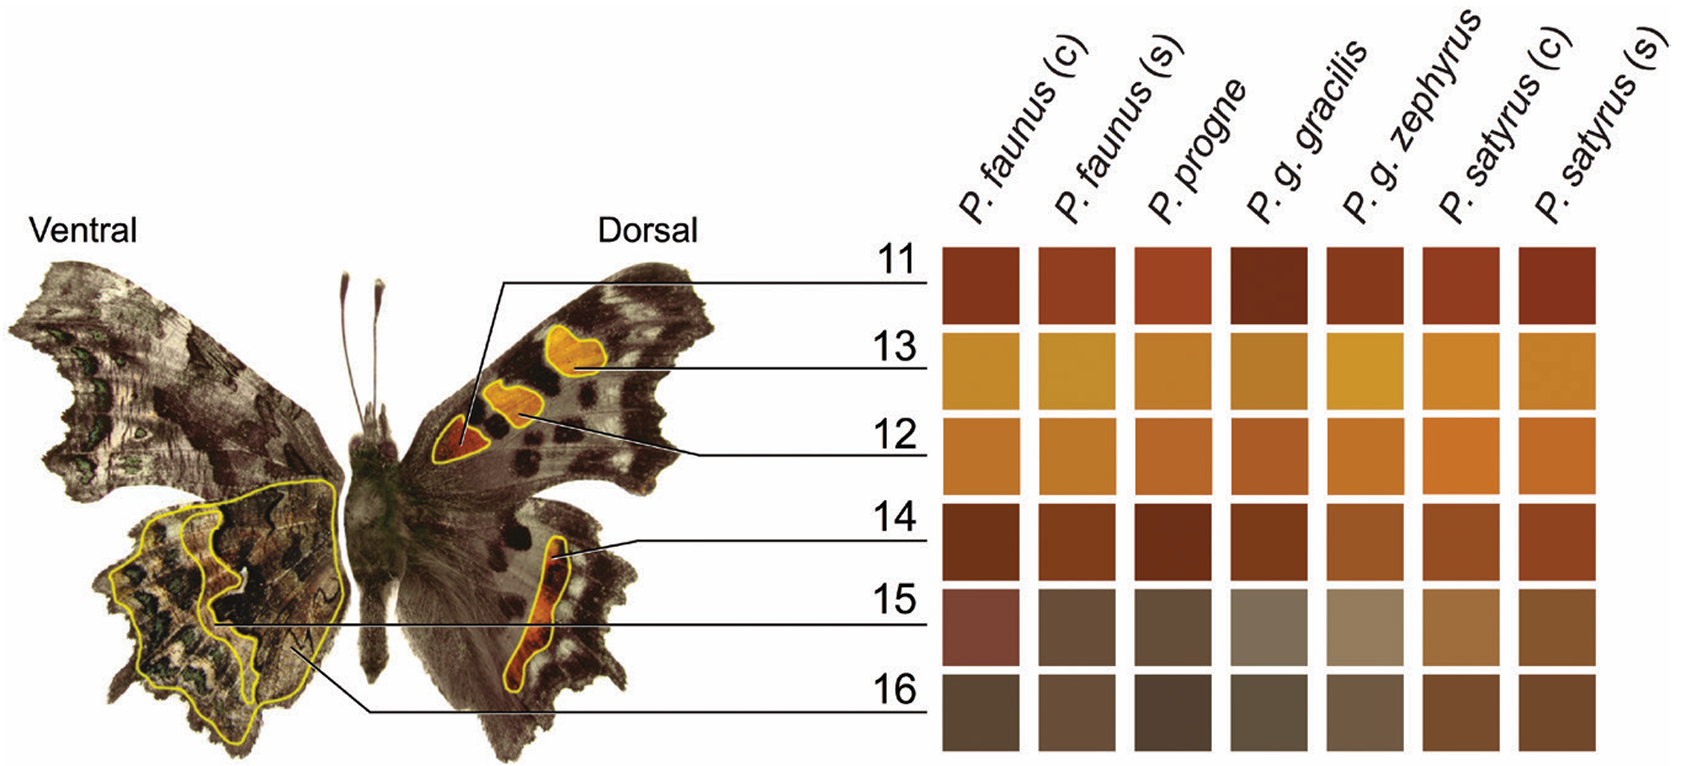
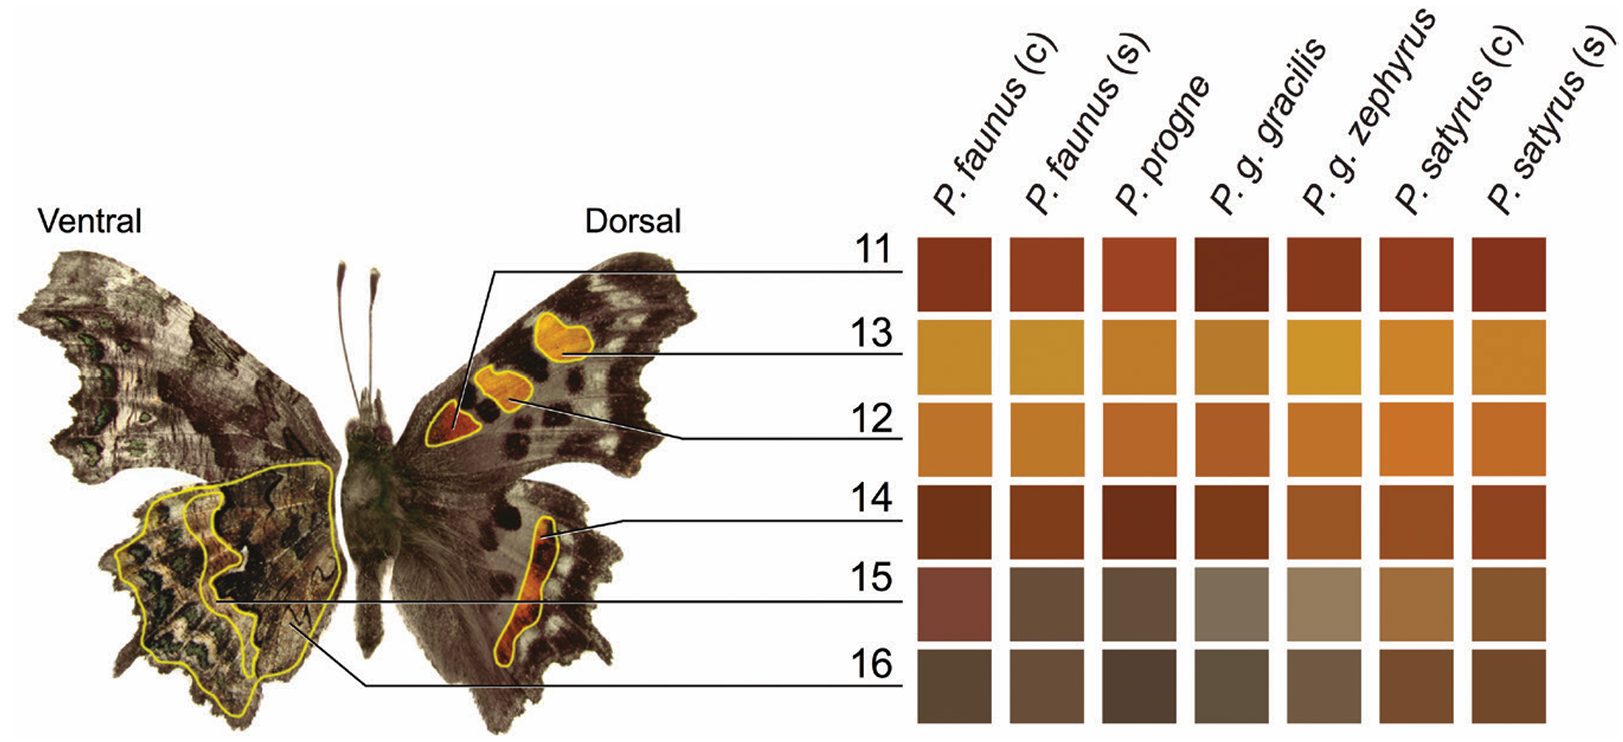
README update

Changed region(s): [[0.0, 0.0, 1.0, 1.0], [0.5545, 0.248, 0.5853, 0.279]]

diff --git a/README.md b/README.md
@@ -6,16 +6,17 @@ SOMs are unsupervised machine-learning models that organize high-dimensional dat
 Different sources of information, such as genomic, morphological, environmental, or spatial data, are retained as separate layers while jointly contributing to the same map.
 Any data that can be represented quantitatively for a common set of individuals can be incorporated, including continuous, binary, categorical, and count data.
 
+First, a SOM grid is constructed with dimensions based on the input data. 
 Each cell in the grid is represented by a codebook vector that summarizes the local multivariate "average" of the individuals mapped to it.
 During training, individuals are repeatedly matched to the most similar cell, and that cell and its neighbors are updated toward their measurements.
 Over many training steps, this produces an organized map where similar individuals become represented in nearby regions and dissimilar individuals farther apart (Kohonen 1998, 2014).
-Because the observations are summarized by few codebook vectors, SOMs can reduce sensitivity to noise and reveal broader structure in complex datasets.
+This can reduce sensitivity to noise and reveal broader structure in complex datasets.
 After SOM training, the codebook vectors are clustered into groups that are interpreted as candidate lineages (Pyron et al. 2023).
 
 The framework does not require predefined species assignments and explicitly permits K = 1, so subdivision is only inferred when supported (Janes et al. 2017; Pyron et al. 2023).
 Multiple SOM replicates quantify support for alternative K values and the stability of individual assignments.
 Data layers are automatically balanced so that no single layer dominates the analysis.
-The method is also robust to missing data, because individual matching and codebook-vector updates use only observed variables, allowing the contribution of incomplete individuals without global imputation (Samad & Harp 1992).
+The method is also robust to missing data.
 Our package relies heavily on the *kohonen* *R* package (Wehrens & Buydens 2007; Wehrens & Kruisselbrink 2018).
 
 Overall, *delimSOM* allows heterogeneous evidence to be analyzed jointly within a single framework, incorporating multiple dimensions of ecological and evolutionary divergence to delimit candidate lineages.
@@ -44,8 +45,6 @@ With *delimSOM* 2.0 (Schönberger et al. preprint), we expand the original frame
 
 Current *R* package version: `2.0.0.9000`
 
-For bug reports, feedback, or questions, please contact Daniel Schönberger: daniel.schoenberger@uky.edu.
-
 
 # A) Basic tutorial
 
@@ -66,7 +65,7 @@ packageVersion("delimSOM")
 
 Input data should be supplied as one or multiple numeric matrices or data frames.
 Rows should represent individuals and columns variables.
-For multilayer analyses, use individual identifiers as row names in every layer.
+For multilayer analyses, individual identifiers as row names are required in every layer.
 Missing values should be represented as `NA`.
 
 Single-layer example input:
@@ -112,7 +111,7 @@ Supported inputs include VCF, `genind`, `genlight`, numeric SNP-dosage matrices,
 Retained biallelic loci are converted to numeric dosage data, with diploid genotypes encoded as 0/1/2 and haploid genotypes as 0/1.
 The function returns a numeric matrix with individuals as rows and retained biallelic loci as columns, ready for SOM training.
 
-Below we show a VCF example using the recommended default filters:
+Below we show a VCF example using the recommended default filters.
 This filtering first removes loci with >70% missing data, then individuals with >50% missing data, followed by a final locus filter of >50% missing data. 
 Singleton and invariant loci are also removed by default.
 
@@ -124,7 +123,7 @@ SNP_data <- process.SNP.data.SOM(vcf.path = "data/data.vcf",
                                  missing.individuals.cutoff = 0.5)
 ```
 
-Other supported genetic input formats can be supplied as follows:
+Other supported genetic input formats can be processed as follows:
 
 ```r
 # genind object
@@ -173,9 +172,9 @@ binary_data <- make.cols.binary.SOM(dataframe = categorical_data,
 ### 3.3 Continuous data
 
 Continuous environmental, morphological, or other numeric data can be filtered with `remove.lowCV.multicollinearity.SOM()`.
-This function removes variables with negligible variation or strong correlations.
+This function removes variables with low variation or strong correlations.
 By default, binary and count variables with prevalence <0.05 are removed, non-binary variables with a coefficient of variation ≤0.05 are removed, followed by iterative removal of variables with pairwise absolute Spearman correlations >0.9.
-Specific columns can be ignored for filtering but retained in the dataset using `exclude.cols`, for example coordinates or identifiers.
+Specific columns can be ignored for filtering but retained in the dataset using `exclude.cols` (e.g., coordinates or identifiers).
 
 Example using the recommended default filters:
 
@@ -232,8 +231,8 @@ SOM_results$optim_k_summary
 
 # B) Empirical example: *Polygonia* anglewing butterflies
 
-This tutorial section demonstrates the main steps of the *delim-SOM* 2.0 workflow based on the empirical case study 1 presented in our study (Schönberger et al. preprint).
-The example includes four broadly sympatric and morphologically similar western Canadian *Polygonia* anglewing butterfly species (Lepidoptera: Nymphalidae) from Dupuis et al. (2018).
+This tutorial section demonstrates the main steps of the *delim-SOM* workflow based on one empirical case study presented in our study (Schönberger et al. preprint).
+The system includes four sympatric and morphologically similar western Canadian *Polygonia* anglewing butterfly species from Dupuis et al. (2018).
 
 The figure below (Fig. 5 in Dupuis et al. 2018) shows their main results and the four inferred species: *Polygonia faunus*, *P. gracilis*, *P. progne*, and *P. satyrus*:
 A) geographic sampling localities, 
@@ -246,14 +245,14 @@ C) STRUCTURE results based on 961 SNPs, including the overall K = 4 clustering a
 
 For our *delim-SOM* 2.0 reanalysis, we analyzed 200 individuals shared across the six data layers:
 
-1. genome-wide genotyping-by-sequencing (GBS) SNPs
+1. genome-wide SNPs from genotyping-by-sequencing (GBS)
 2. mitochondrial COI
-3. continuous morphology (RGB wing-color measurements)
+3. continuous morphology (wing-color measurements)
 4. categorical morphology (visually scored wing characters and morphotype)
 5. environmental variables
 6. spatial variables
 
-To follow this tutorial side-by-side, the example data can be downloaded here:
+To follow this tutorial side-by-side, the files for this empirical example can be downloaded here:
 
 ```text
 https://github.com/rpyron/delim-SOM/tree/dev2.0/Empirical_examples/Dupuis_et_al_2018
@@ -262,7 +261,7 @@ https://github.com/rpyron/delim-SOM/tree/dev2.0/Empirical_examples/Dupuis_et_al_
 
 ## 1. Set paths
 
-Here, we define the path to the directory containing the empirical example datasets.
+First, we define the path to the directory containing the empirical example datasets.
 
 ```r
 #### Set environment ###########################################################
@@ -289,13 +288,13 @@ dim(Polygonia_metadata)
 head(Polygonia_metadata, n = 2)
 ```
 
-We see that the metadata contain species identity, specimen ID, geographic coordinates, and morphotype information for 265 individuals.
+We see that the metadata contains species identity, specimen ID, geographic coordinates, and morphotype information for 265 individuals.
 Specimen identifiers are used as row names and allow the metadata to be matched to the other data layers throughout the analysis.
 
 
 ```text
 [1] 265   5
-        Species        ID   Latitude Longitude Morphotype
+          Species      ID   Latitude Longitude Morphotype
 8301 Polygonia faunus 8301   50.921  -114.527  Contrasted
 8302 Polygonia faunus 8302   50.921  -114.527  Contrasted
 ```
@@ -312,14 +311,13 @@ Polygonia_SNP <- process.SNP.data.SOM(vcf.path = file.path(example_dir, "Polygon
                                       missing.loci.cutoff.lenient = 0.7,
                                       missing.loci.cutoff.final = 0.5,
                                       missing.individuals.cutoff = 0.5)
-
 rownames(Polygonia_SNP) <- sub(".*?(\\d+)$", "\\1", rownames(Polygonia_SNP))
 
 dim(Polygonia_SNP)
 print(Polygonia_SNP[1:2, 1:10])
 ```
 
-This retains all 961 biallelic SNPs as variables (columns) and 237 of the original 241 individuals (rows), with four individuals removed due to more than 50% missing data:
+This retains all 961 biallelic SNPs as variables (columns) from 237 of the original 241 individuals (rows), with four individuals removed due to more than 50% missing data:
 
 ```text
 [1] 237 961
@@ -331,10 +329,10 @@ This retains all 961 biallelic SNPs as variables (columns) and 237 of the origin
 
 ### 2.3 Process mitochondrial COI data
 
-Second, we import and process the aligned mitochondrial COI sequences. As before, we use `process.SNP.data.SOM()` with the recommended default settings.
-The function converts the sequence alignment to biallelic SNP variables.
-Then, we use `sub()` to retain only the numeric specimen identifier, as before.
-Duplicate specimen identifiers are removed by retaining the first occurrence, and the output is evaluated.
+Third, we import and process the aligned mitochondrial COI sequences. 
+As before, we use `process.SNP.data.SOM()` with the recommended defaults to convert the sequence alignment to biallelic SNPs.
+Then, we use `sub()` to retain only the numeric specimen identifier.
+Duplicate specimen identifiers are removed and the output is evaluated.
 
 ```r
 #### Process COI data ##########################################################
@@ -342,7 +340,6 @@ Polygonia_COI <- process.SNP.data.SOM(nexus.path = file.path(example_dir, "Polyg
                                       missing.loci.cutoff.lenient = 0.7,
                                       missing.loci.cutoff.final = 0.5,
                                       missing.individuals.cutoff = 0.5)
-
 Polygonia_COI_numeric_rownames <- sub(".*?(\\d+)$", "\\1", rownames(Polygonia_COI))
 Polygonia_COI <- Polygonia_COI[!duplicated(Polygonia_COI_numeric_rownames), , drop = FALSE]
 rownames(Polygonia_COI) <- Polygonia_COI_numeric_rownames[!duplicated(Polygonia_COI_numeric_rownames)]
@@ -364,7 +361,7 @@ This retains 213 biallelic COI variables or SNPs (columns) from the original 1,3
 ### 2.4 Prepare continuous wing-color morphology
 
 This section imports and processes the continuous morphology data containing RGB color measurements from six dorsal and ventral wing regions.
-The specimen identifiers are used as row names, and the non-morphological `Name` and `Species` columns are removed.
+The specimen identifiers are used as row names (confusingly stored as `Species` column in the original dataset), and the non-morphological `Name` and `Species` columns are removed.
 We then filter the continuous wing-color variables for low variation and high pairwise absolute Spearman correlations using the defaults in `remove.lowCV.multicollinearity.SOM()`.
 Lastly, we evaluate the output.
 
@@ -388,7 +385,7 @@ Filtering removes three of the original eighteen continuous wing-color variables
 8302 111.30 51.86 19.38 151.62  91.75 12.01 167.63 124.57 33.41 59.09
 ```
 
-The figure below (Fig. 3 in Dupuis et al. 2018) shows the six dorsal and ventral wing regions (spots 11-16 in their figure) used for the RGB measurements and the average red, green, and blue luminance values for each species, with (c) and (s) denoting the contrasted and smeared forms of *P. faunus* and *P. satyrus*, respectively.
+The figure below (Fig. 3 in Dupuis et al. 2018) shows the six dorsal and ventral wing regions (spots 11-16 in their figure) used for the RGB measurements and their average red, green, and blue luminance values for each species, with (c) and (s) denoting the contrasted and smeared morphotypes, respectively.
 
 <p align="center">
   <img src="figures/Figure_Dupuis_et_al_2018_Fig3.png">
@@ -397,11 +394,12 @@ The figure below (Fig. 3 in Dupuis et al. 2018) shows the six dorsal and ventral
 
 ### 2.5 Prepare categorical wing morphology
 
-We next import and prepare the visually scored wing characters and combine them with the morphotype data.
+We next import and process the visually scored wing characters and combine them with the morphotype data.
 
 The figure below (Fig. 2 in Dupuis et al. 2018) shows the ten visually scored characters on the dorsal and ventral wing surfaces and the proportion of each character state across species.
+The authors chose these characters and regions based on diagnostic features in field guides.
 The labels 1–10 indicate the scored wing characters, while (c) and (s) denote the contrasted and smeared forms of *P. faunus* and *P. satyrus*, respectively.
-We can see that most characters are binary, but three (1, 4, 5) are ordinal and one (8) is nominal.
+We can see that most characters are binary, but three (spots 1, 4, 5) are ordinal and one (spot 8) is nominal.
 
 <p align="center">
   <img src="figures/Figure_Dupuis_et_al_2018_Fig2.png" width="800">
